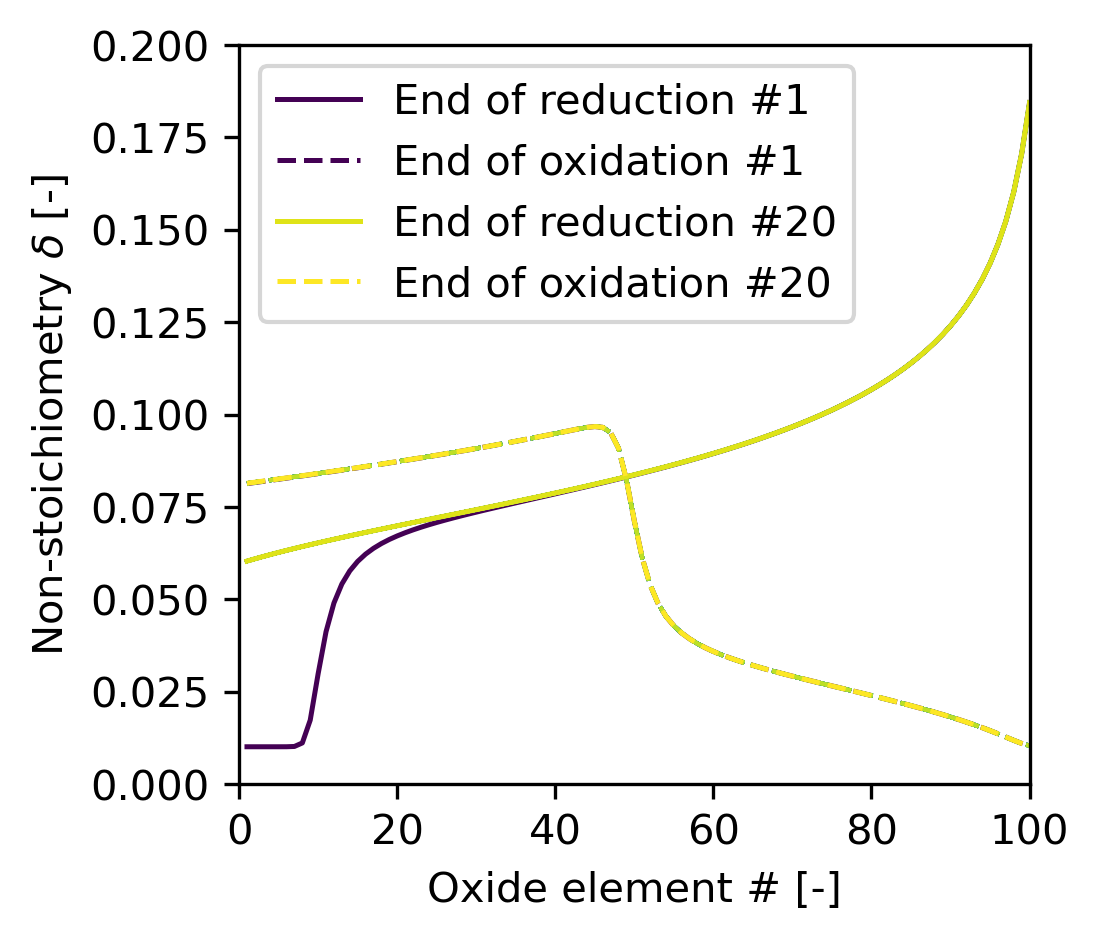
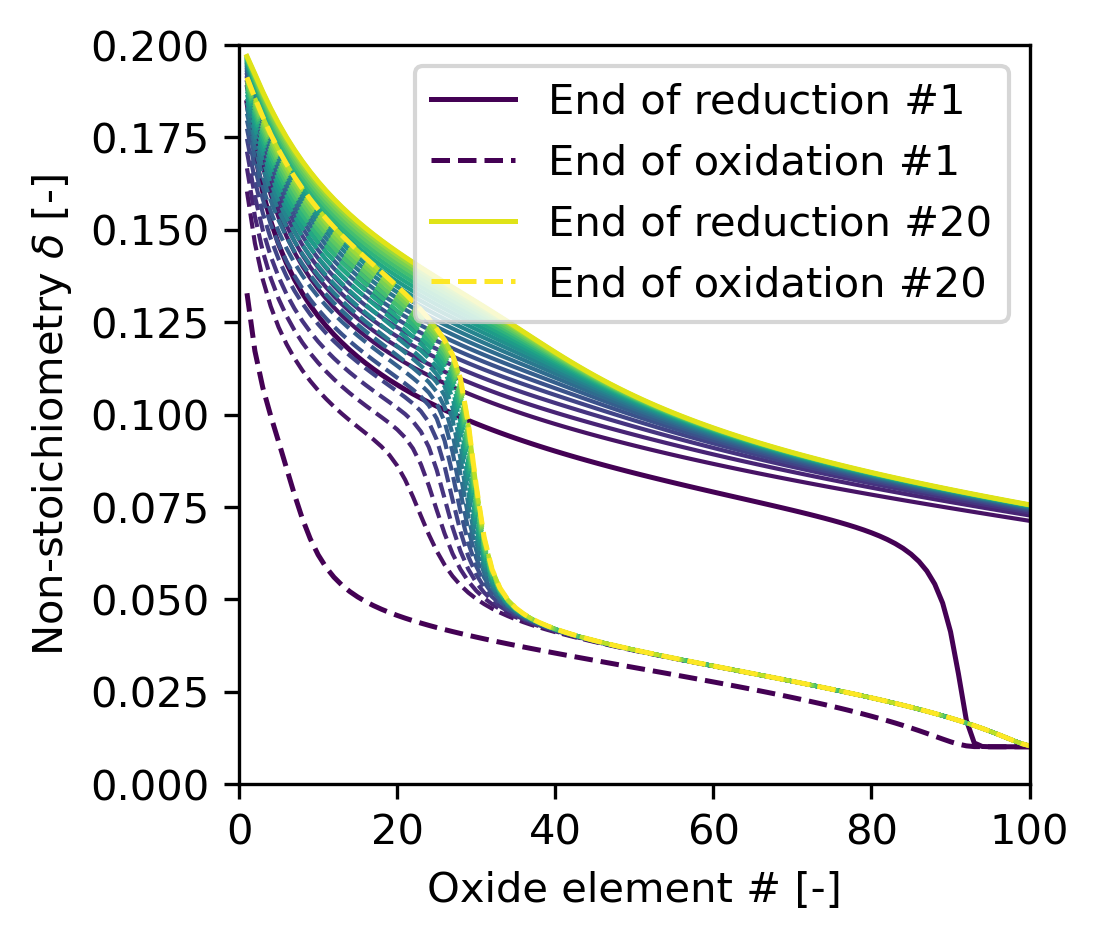
13/10/26

diff --git a/model_testing/mass_balance_test.py b/model_testing/mass_balance_test.py
@@ -1,5 +1,6 @@
 import time
 import sys
+import os
 import numpy as np
 import matplotlib.pyplot as plt
 from matplotlib.ticker import MaxNLocator
@@ -34,7 +35,7 @@ cycles = 20  # Number of redox cycles
 x_CO2_0 = 0.998  # Initial CO2 mole fraction
 x_H2O_0 = 0.005  # Initial H2O mole fraction
 gas_mesh, oxide_mesh = 100, 100 # Discretization
-left_flow_red=True
+left_flow_red=False
 left_flow_ox=True
 
 # === Initialize storage for plotting variables
@@ -113,8 +114,7 @@ print("Final CO2 conversion:", X_CO2_values[-1])
 
 
 # === PLOTTING ===
-plot_dir = Path(__file__).resolve().parent / "plots"
-plot_dir.mkdir(parents=True, exist_ok=True)
+os.makedirs("plots", exist_ok=True)
 
 # === Plot 1: Delta profiles along the bed for all cycles
 x_space = np.arange(len(delta_t_x_red[-1]))+1
@@ -127,7 +127,7 @@ ax.plot(x_space, delta_red_end[0], ls='-', lw=1.2,  label='End of reduction #1')
 
 # Plot reduction delta profiles
 for i in range(1, cycles-1):
-    ax.plot(x_space, delta_red_end[i], ls='-', lw=1.0, label='__nolegend__')
+    ax.plot(x_space, delta_red_end[i+1], ls='-', lw=1.0, label='__nolegend__')
 
 # Reset color cycle for clarity
 plt.gca().set_prop_cycle(None)
@@ -135,37 +135,32 @@ plt.gca().set_prop_cycle(None)
 ax.plot(x_space, delta_ox_end[0], ls='--', lw=1.2,  label='End of oxidation #1')
 # Plot oxidation delta profiles
 for i in range(1, cycles-1):
-    ax.plot(x_space, delta_ox_end[i], ls='--', lw=1.0, label='__nolegend__')
+    ax.plot(x_space, delta_ox_end[i+1], ls='--', lw=1.0, label='__nolegend__')
 
 # Highlight final cycle
-ax.plot(x_space, delta_red_end[-1], ls='-', lw=1.2, label=f'End of reduction #{cycles}')
-ax.plot(x_space, delta_ox_end[-1], ls='--', lw=1.2, label=f'End of oxidation #{cycles}')
-ax.set_xlim(0, oxide_mesh)
+ax.plot(x_space, delta_red_end[-1], ls='-', lw=1.2,  label='End of reduction #20')
+ax.plot(x_space, delta_ox_end[-1], ls='--', lw=1.2,  label='End of oxidation #20')
+ax.set_xlim(0,100)
 ax.set_ylim(0,0.2)
 plt.legend()
-filename = plot_dir / f"mass_balance_{cycles}_cycle_delta_profiles.png"
+filename = Path("plots") / "mass_balance_20_cycle_delta_profiles.png"
 plt.savefig(filename, dpi=300, bbox_inches='tight')
 
 plt.show()
 
-cycle_numbers = np.arange(1, cycles + 1)
+cycles = np.linspace(1,20,20)
 # === Plot 2: System mass balance
 fig, ax = plt.subplots(figsize=(3.4, 3.2))
 ax.set_xlabel('Cycle # [-]')
 ax.set_ylabel('Mass Balance [-]')
-ax.plot(cycle_numbers, O_bal_oxide_values_red, ls='--', lw=1.3, color='tab:orange',
-        label=r'Reduction: H$_2$O/$\Delta \delta$')
-ax.plot(cycle_numbers, O_bal_oxide_values, ls=':', lw=2, color='tab:blue',
-        label=r'Oxidation: CO/$\Delta \delta$')
-ax.plot(cycle_numbers, O_bal_gas_values, ls='--', lw=1.3, color='tab:green',
-        label='Cycle: CO/H$_2$O')
-ax.plot(cycle_numbers, X_H2_values, ls='-', color='grey', lw=1.3,
-        label=r'$X_{\mathrm{H_2}}$')
-ax.plot(cycle_numbers, X_CO2_values, ls='-', lw=1.3, color='black',
-        label=r'$X_{\mathrm{CO_2}}$')
+ax.plot(cycles, O_bal_oxide_values_red, ls='--', lw=1.3, color='tab:orange', label='Reduction: H$_2$O/$\\Delta \delta$')
+ax.plot(cycles, O_bal_oxide_values, ls=':', lw=2, color='tab:blue', label='Oxidation: CO/$\\Delta \delta$')
+ax.plot(cycles, O_bal_gas_values, ls='--', lw=1.3, color = 'tab:green', label='Cycle: CO/H$_2$O')
+ax.plot(cycles, X_H2_values, ls='-', color = 'grey', lw=1.3, label='$X_{\mathrm{H_2}}$')
+ax.plot(cycles, X_CO2_values, ls='-', lw=1.3, color = 'black', label='$X_{\mathrm{CO_2}}$')
 ax.xaxis.set_major_locator(MaxNLocator(integer=True))
-ax.set_xlim(1, cycles)
+ax.set_xlim(1,20)
 ax.legend()
-filename = plot_dir / f"mass_balance_{cycles}_cycles_O_balance.png"
+filename = Path("plots") / "mass_balance_20_cycles_O_balance.png"
 plt.savefig(filename, dpi=300, bbox_inches='tight')
 plt.show()

diff --git a/test_mass_balance.py b/test_mass_balance.py
@@ -1,0 +1,39 @@
+"""Run with python -m unittest test_mass_balance."""
+import unittest
+import numpy as np
+
+from functions.main import simulate_cycle
+from functions.mass_balance import calculate_mass_balance
+
+class BalanceTests(unittest.TestCase):
+    def test_directions_and_initial_state(self):
+        n_oxide, n_H2, n_CO2 = 10, 1.5, .8
+        x_H2O_0, x_CO2_0 = 0.005, 0.998
+        for red in (False, True):
+            for ox in (False, True):
+                for first in (False, True):
+                    initial = np.linspace(.01, .02, 7)
+                    result = simulate_cycle(material='CeZr15', T=1023, n_oxide=n_oxide,
+                        n_H2=n_H2, n_CO2=n_CO2, x_H2O_0=x_H2O_0, x_CO2_0=x_CO2_0,
+                        gas_mesh=9, oxide_mesh=7,
+                        first_cycle=first, delta_x_0=initial,
+                        left_flow_red=red, left_flow_ox=ox, return_details=True)
+                    np.testing.assert_array_equal(initial, np.linspace(.01, .02, 7))
+                    delta_red, _, delta_ox, _ = result['grids']
+                    X_CO2, X_H2, _, O_bal_CO2_oxide, O_bal_H2_oxide = calculate_mass_balance(
+                        *result['grids'], initial_delta_red=result['initial_delta_red'],
+                        n_oxide=n_oxide, n_H2=n_H2, n_CO2=n_CO2,
+                        x_CO2_0=x_CO2_0, x_H2O_0=x_H2O_0,
+                        left_flow_red=red, left_flow_ox=ox)
+
+                    # Gas-side oxygen equals oxide-side oxygen in each step
+                    nO_red = n_oxide * np.mean(delta_red[-1] - result['initial_delta_red'])
+                    nO_ox = n_oxide * np.mean(delta_red[-1] - delta_ox[-1])
+                    self.assertLess(abs(X_H2 * n_H2 - nO_red), 1e-12)
+                    self.assertLess(abs(X_CO2 * n_CO2 - nO_ox), 1e-12)
+                    self.assertAlmostEqual(O_bal_H2_oxide, 1, places=10)
+                    self.assertAlmostEqual(O_bal_CO2_oxide, 1, places=10)
+
+
+if __name__ == '__main__':
+    unittest.main()

diff --git a/functions/main.py b/functions/main.py
@@ -7,7 +7,7 @@ def simulate_cycle(material="CeO2", first_cycle=True, delta_x_0=None,
                    T=1073, n_CO2=1.0, n_H2=1.01, n_oxide=20,
                    x_H2O_0=0.005, x_CO2_0=0.998,
                    oxide_mesh=100, gas_mesh=100,
-                   left_flow_red=False, left_flow_ox=True, return_details = False):
+                   left_flow_red=False, left_flow_ox=True, return_details=False):
     """
     Simulate a single chemical looping cycle (reduction + oxidation) in a 1D reactor.
 
@@ -33,6 +33,9 @@ def simulate_cycle(material="CeO2", first_cycle=True, delta_x_0=None,
 
     All returned grids use the same physical spatial orientation. No additional
     flips are needed when passing the final solid profile to the next cycle.
+
+    With return_details=True, returns a dictionary containing the four grids
+    and a copy of the actual pre-reduction profile (initial_delta_red).
 
     Returns:
         tuple:
@@ -79,6 +82,8 @@ def simulate_cycle(material="CeO2", first_cycle=True, delta_x_0=None,
             raise ValueError("delta_x_0 must contain one value per oxide element.")
         delta_t_x_red[0] = initial_profile
 
+    initial_delta_red = delta_t_x_red[0].copy()
+
     # Create differential change in oxygen mass balance arrays for batch equilibrium solver
     d_delta_red, d_X_red = build_arrays.mass_balance_arrays(
         delta_max=delta_max, n_gas=n_H2,
@@ -109,9 +114,8 @@ def simulate_cycle(material="CeO2", first_cycle=True, delta_x_0=None,
     if return_details:
         return {
             "grids": (delta_t_x_red, x_H2O_t_x_red, delta_t_x_ox, x_CO2_t_x_ox),
-            "initial_delta_red": delta_t_x_red[0].copy(),
+            "initial_delta_red": initial_delta_red,
         }
-
     return delta_t_x_red, x_H2O_t_x_red, delta_t_x_ox, x_CO2_t_x_ox
 
 

diff --git a/model_testing/heat_map_model.py b/model_testing/heat_map_model.py
@@ -1,0 +1,44 @@
+import cantera as ct
+import numpy as np
+import matplotlib.pyplot as plt
+import os
+
+
+
+# define a solution object
+RWGS = ct.Solution('RWGS-database.cti')
+
+# Make arrays over which to calculate the CO2 conversion
+nH2_range = np.arange(1.0,4.0,0.05)                 # [-] H2/CO2 = nH2
+T_range = np.arange(573, 1183, 10)                  # [K]
+p = 100000                                          # [Pa] or 1 bar
+
+# make an array to store the results
+X_CO2_map = np.zeros((len(nH2_range), len(T_range)))
+
+for i, n_H2 in enumerate(nH2_range):
+    for j , T in enumerate(T_range):
+        RWGS.X = {"H2": n_H2, "CO2": 1.0}
+        RWGS.TP = T, p
+        RWGS.equilibrate('TP')
+        CO2_conversion = RWGS.X[RWGS.species_index('CO')]/(RWGS.X[RWGS.species_index('CO')]+ RWGS.X[RWGS.species_index('CO2')])
+        X_CO2_map[i][j] = CO2_conversion
+
+T_range, nH2_range  = np.meshgrid(T_range, nH2_range)
+
+# Plot the results on a heatmap contour plot
+fig = plt.figure(figsize=(4.2, 3.2), facecolor='white')
+ax0 = plt.subplot()
+ax0.set_xlabel('$T$ [K]')
+ax0.set_ylabel('$\mathrm{H_2/CO_2}$ [-]')
+
+im = ax0.pcolormesh(T_range, nH2_range, X_CO2_map, rasterized=True, vmin =0.1, vmax =1.0)
+levels = [0.1, 0.2, 0.3, 0.4, 0.5, 0.6, 0.7, 0.8, 0.9]
+ct = ax0.contour(T_range, nH2_range, X_CO2_map, levels = levels, colors = 'black')
+ax0.clabel(ct, fmt='%1.1f')
+cb = fig.colorbar(im, ax=ax0)
+cb.set_label(label ='$X_\mathrm{CO_2}$')
+plt.tight_layout()
+plt.savefig(os.path.join('plots',"figure_1c.png"), dpi = 400, bbox_inches='tight')
+plt.savefig(os.path.join('plots',"figure_1c.pdf"), bbox_inches='tight')
+plt.show()

diff --git a/model_testing/discretization_tests.py b/model_testing/discretization_tests.py
@@ -22,8 +22,8 @@ n_oxide = 40            # Moles of oxide in the bed
 x_CO2_0 = 0.998         # Initial mole fraction CO2
 x_H2O_0 = 0.002         # Initial mole fraction H2O
 mesh_range = np.arange(2, 250, 2)
-left_red=True
-left_ox=False
+reduction=True
+oxidation=False
 
 # === Initialize storage lists ===
 solve_time = []
@@ -46,17 +46,12 @@ for mesh in mesh_range:
         gas_mesh=mesh
     )
 
-    delta_ox_prev = delta_t_x_red[0].copy()
-
     # Compute mass balance
-    X_CO2, X_H2, O_bal_gas, O_bal_oxide, O_bal_oxide_red = calculate_mass_balance(
+    X_CO2, X_H2, O_bal_gas, O_bal_oxide = calculate_mass_balance(
         delta_t_x_red, x_H2O_t_x_red,
         delta_t_x_ox, x_CO2_t_x_ox,
-        initial_delta_red = delta_ox_prev,
         n_H2=n_H2, n_oxide=n_oxide,
-        x_CO2_0=x_CO2_0, x_H2O_0=x_H2O_0,
-        left_flow_red=left_red, 
-        left_flow_ox=left_ox
+        x_CO2_0=x_CO2_0, x_H2O_0=x_H2O_0
     )
 
     X_CO2_values.append(X_CO2)

diff --git a/example_1_simulate_cycle.py b/example_1_simulate_cycle.py
@@ -11,7 +11,7 @@ mpl.rcParams['axes.prop_cycle'] = mpl.cycler(color= plt.cm.viridis(np.linspace(0
 
 
 # === Set material from options - "CeO2", "CeZr05", "CeZr15", "CeZr20", "LSF"
-material = "CeZr15"
+material = "CeZr20"
 
 # === Define process conditions
 T = 1023  # Temperature in Kelvin
@@ -21,7 +21,7 @@ n_oxide = 10  # Moles of oxide material
 x_CO2_0 = 0.998  # Initial CO2 mole fraction
 x_H2O_0 = 0.005  # Initial H2O mole fraction
 gas_mesh, oxide_mesh = 100, 100 # Discretization
-left_red=True
+left_red=False
 left_ox=False
 delta_x_0 = np.zeros(oxide_mesh)
 

diff --git a/model_testing/batch_equilibrium_tests.py b/model_testing/batch_equilibrium_tests.py
@@ -46,7 +46,7 @@ d_delta, d_X = build_arrays.mass_balance_arrays(
     n_oxide=n_oxide, gas_mesh=gas_mesh, oxide_mesh=oxide_mesh
 )
 
-Delta_delta = batch_equilibrium_solver.batch_equilibrium(mu_O_delta_func, mu_O_H2O_func, delta_i_red, x_H2O_0, d_delta, d_X)
+Delta_delta = batch_equilibrium_solver.reduction(mu_O_delta_func, mu_O_H2O_func, delta_i_red, x_H2O_0, d_delta, d_X)
 Delta_delta_2 = batch_equilibrium_solver.oxidation(mu_O_delta_func, mu_O_CO2_func, delta_i_ox, x_CO2_0, d_delta, d_X)
 
 # VISUALIZE REDUCTION EQUILIBRIUM - This plot is figure 3 in the paper

diff --git a/example_2_cycle_until_balanced.py b/example_2_cycle_until_balanced.py
@@ -8,7 +8,7 @@ from functions.energy_balance import calculate_energy_balance, oxidation_dT_quas
 from functions.main import cycle_until_balanced
 
 # === Set material from options - "CeO2", "CeZr05", "CeZr15", "CeZr20", "LSF"
-material = "CeZr15"
+material = "CeZr20"
 
 # === Define process conditions
 T = 1023  # Temperature in Kelvin

diff --git a/functions/batch_equilibrium_solver.py b/functions/batch_equilibrium_solver.py
@@ -1,6 +1,6 @@
 import numpy as np
 
-def batch_equilibrium(mu_O_delta_func, mu_O_gas_func, delta_i, x_i, d_delta, d_X, mu_tolerance=0.001):
+def batch_equilibrium(mu_O_delta_func, mu_O_gas_func, delta_i, x_i, d_delta, d_X, mu_tolerance=0.1):
     """
     Solve equilibrium condition for a batch reactor in either direction.
 

diff --git a/Lab_report.md b/Lab_report.md
@@ -495,9 +495,45 @@ left_ox=True
 X_CO2 = 0.9900 | X_H2 = 0.6601 | Q_red = 121.871 kJ/mol | Q_ox = -87.681 kJ/mol
 ```
 
-Try mesh_tests for `left_red=True`, results coherent
+Tried mesh_tests for `left_red=True`, results coherent
+
+## Week 5 - 
+
+### Meeting
+
+For introduction:
+Intensified process
+
+check test mass_balance - done 
+
+use cantera gas solution object
+
+RWGS 
+
+vary temp and hydrogen 
+
+chek max conversion (heat map)
 
 
+def solution, let it go to equilibrium
+
+have mutliple figures
+
+co-feed catalytic process is limited
+
+
+simulation model (delta as a function of x and t) 
+reduction, non-stoichiometric and what is coming out of the reactor
+compare co-current and counter-current, and alternating one
+
+
+for sequence
+cycle until closed or set max. 20 
+fix H/CO2 ratio
+gradually increase moles of oxides
+plot conversion of CO2
+see how much oxide is required to have a high conversion
+only counter-current before conversion
 
 
 
